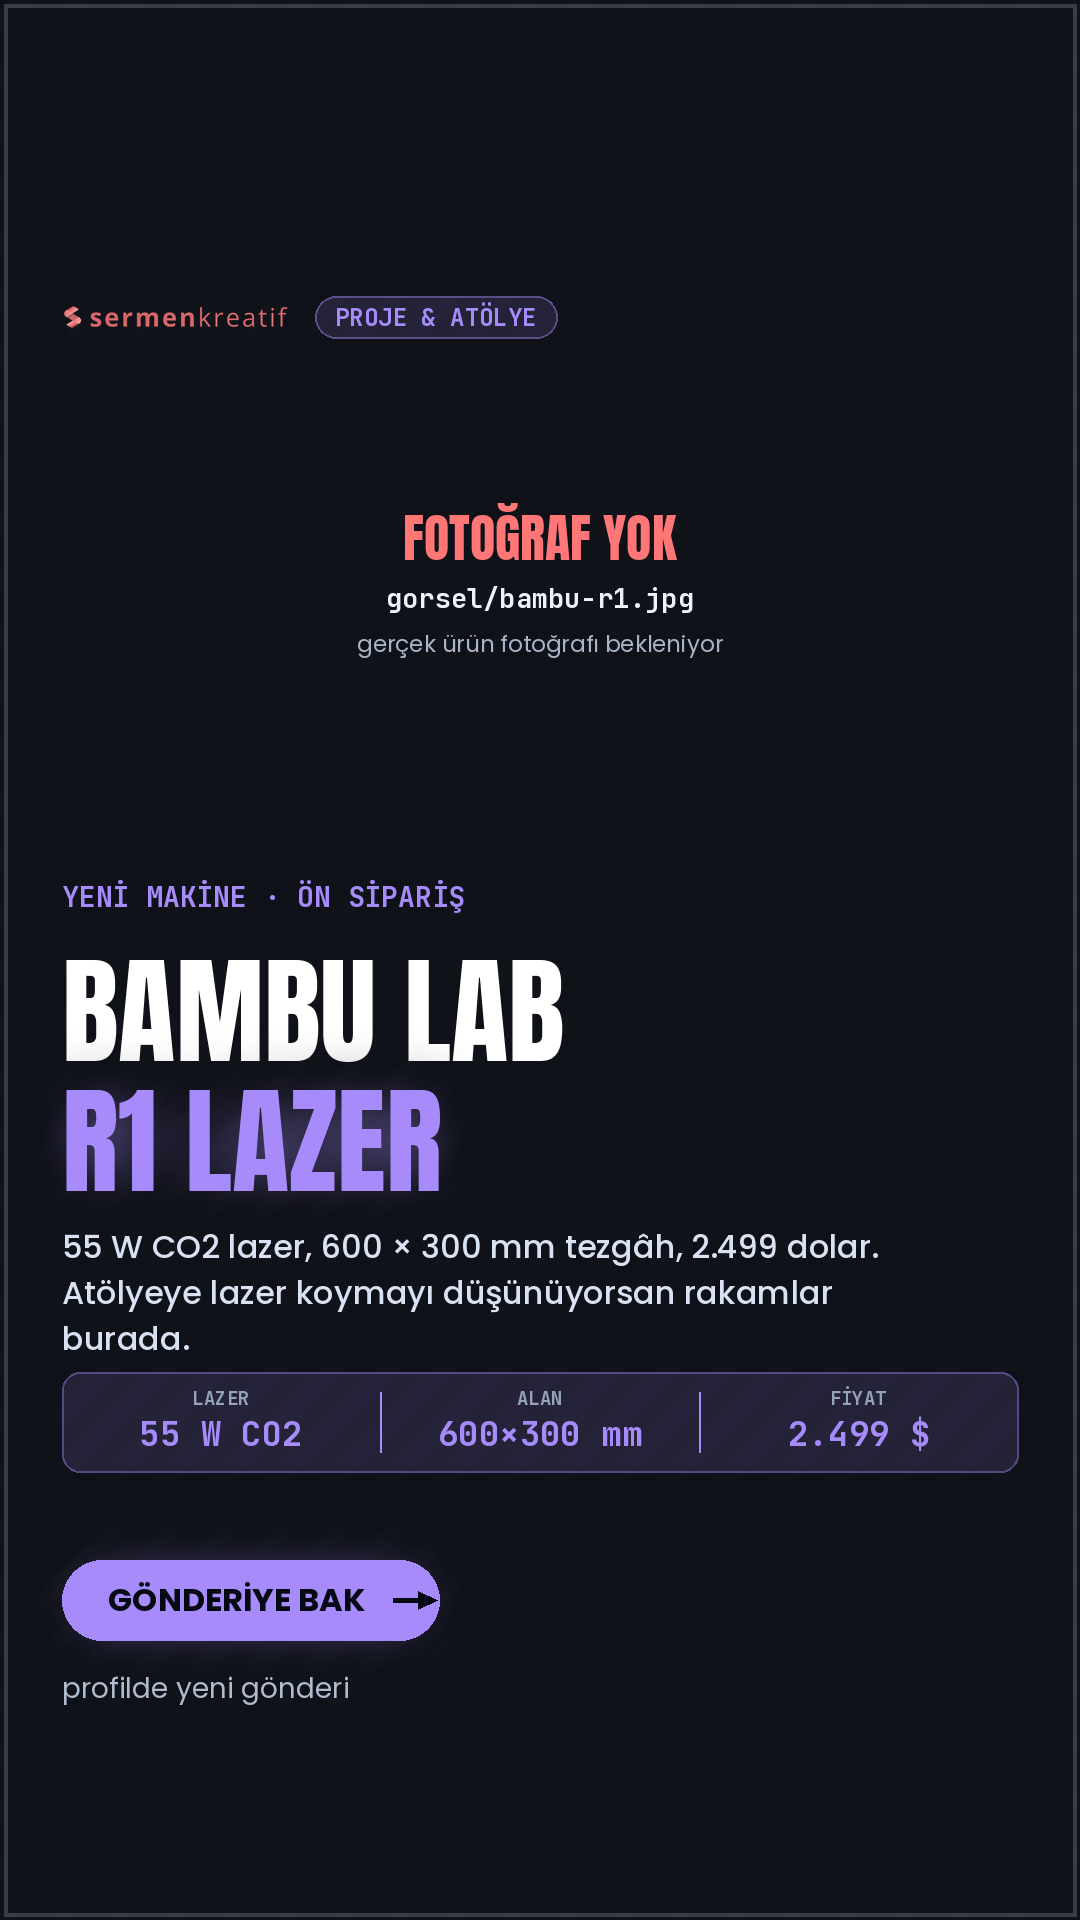
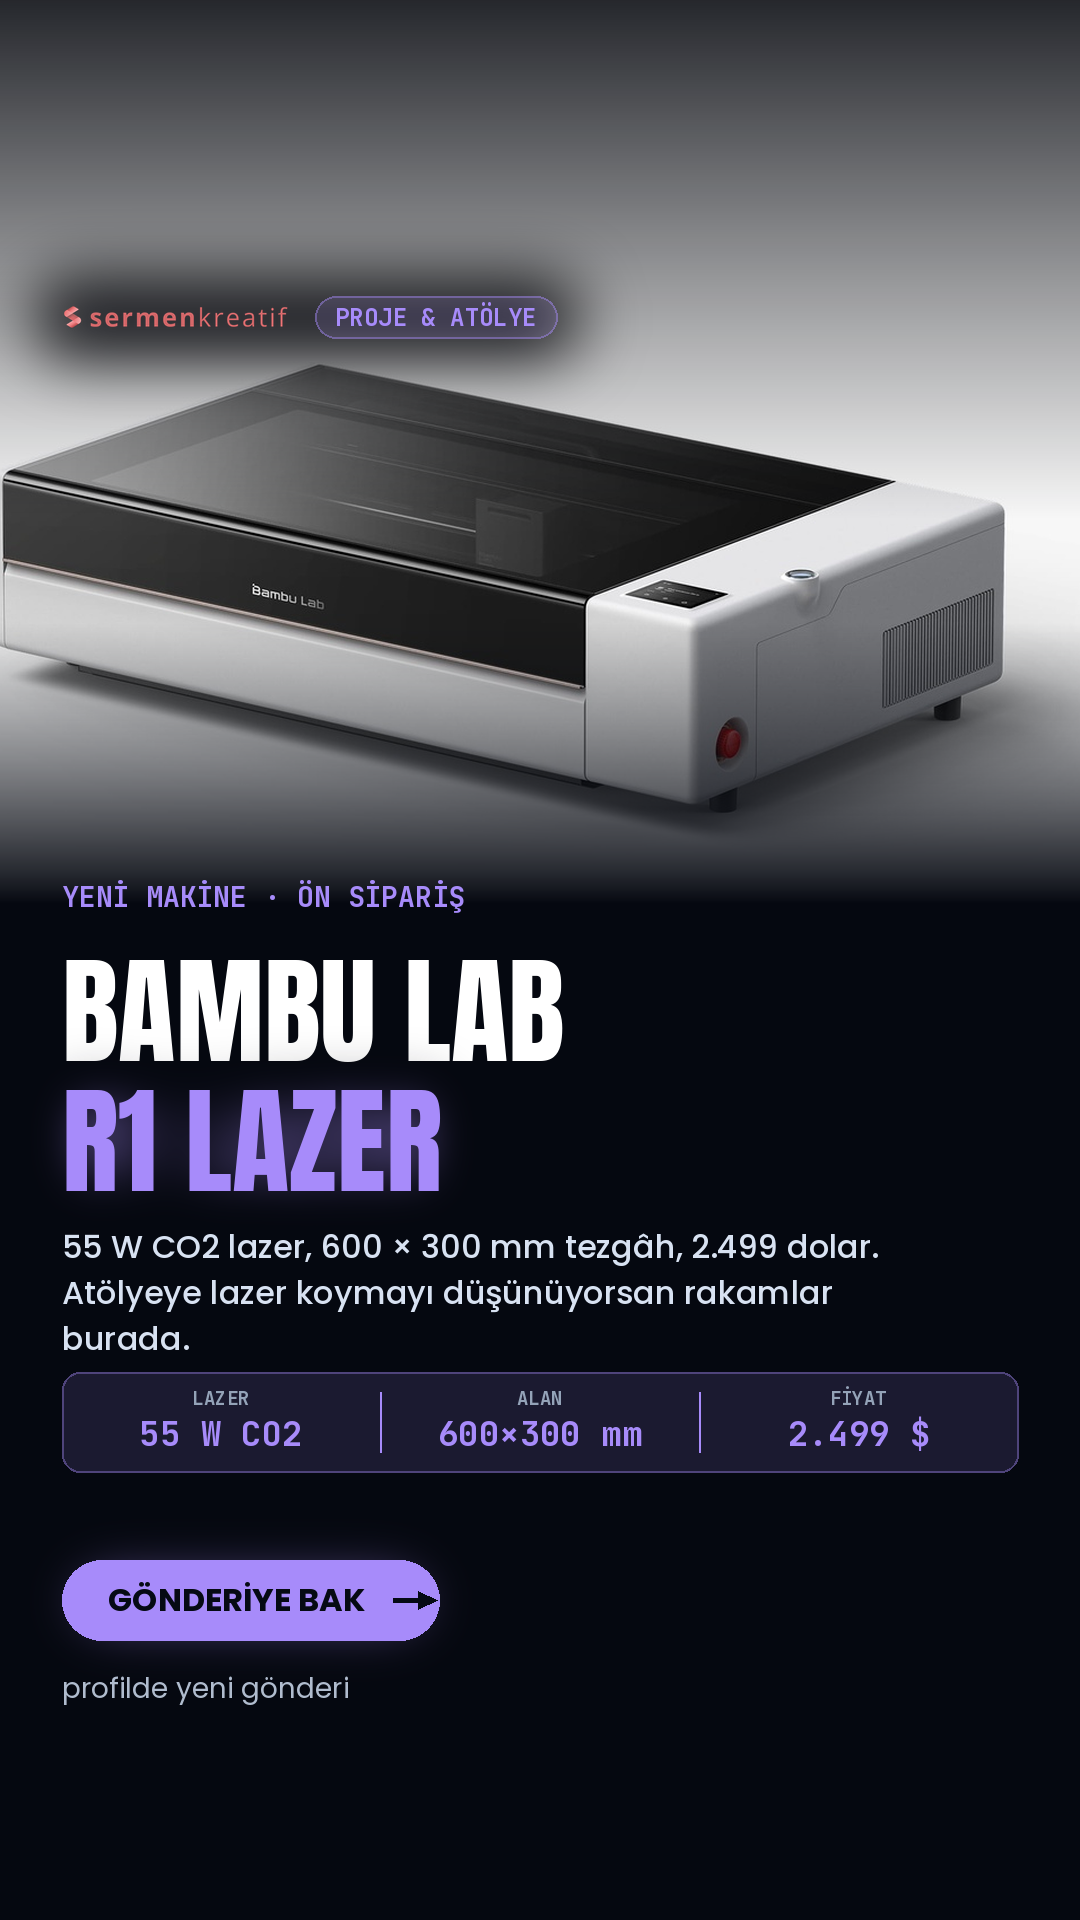
Ürün tanıtımlarına gerçek fotoğraflar eklendi
Fotoğraflar: Bambu Lab R1 ve Creality Ender-3 V3 Mega üretici ürün
çekimleri. Gelen yedi kareden biri kullanılmadı — R1 gönderisi için
gelen açık gövdeli diyot lazer karesi başka bir makineydi.

uret.py:
- urun kapağı artık fotoğrafı perdeyle karartmıyor; fotoğraf yazının
  başladığı yere kadar inip zemine eriyor. Beyaz stüdyo fotoğrafında
  perde yeterince karartmıyor, makinenin üstünde sert bir çizgi
  bırakıyordu.
- _parlaklik / _perde_op / _taban: perde koyuluğu fotoğrafın
  parlaklığına göre seçiliyor.
- Slaytta foto için odak alanı: bant kadrajı spec'ten ayarlanıyor.
- Hikayede logo şeridi parlak zemine denk gelirse altına yumuşak
  karartma giriyor.

İçerik:
- R1 4. karesi fotoğraflı oldu: ayrı satılan parçaların dizilişi.
- Ender metnine CFS uyarısı: fotoğraftaki çok renkli besleme ünitesi
  makineyle gelmiyor, Creality "yakında" diyor.

gorsel/BENIOKU.md: kapak/bant hazırlama farkı, kullanılan dosyalar ve
fotoğrafın gerçekten o ürün olduğunu doğrulama kuralı.

Claude-Session: https://claude.ai/code/session_01DAKoXHyqFjWGSzqcjwTyja

diff --git a/uret.py b/uret.py
@@ -1195,6 +1195,39 @@ def _perde(img, y0, y1, op0, op1):
     img.alpha_composite(lay)
 
 
+def _parlaklik(img, y0, y1):
+    """Bandın ortalama parlaklığı — perde koyuluğunu buna göre seçiyoruz."""
+    y0, y1 = max(0, int(y0)), min(img.height, int(y1))
+    if y1 <= y0:
+        return 0.0
+    k = img.convert("RGB").crop((0, y0, img.width, y1)) \
+           .resize((1, 1), Image.LANCZOS).getpixel((0, 0))
+    return 0.2126 * k[0] + 0.7152 * k[1] + 0.0722 * k[2]
+
+
+def _perde_op(parlaklik):
+    """Beyaz stüdyo fotoğrafı koyu fotoğraftan daha ağır perde istiyor."""
+    if parlaklik > 170:
+        return 0.93
+    if parlaklik > 110:
+        return 0.88
+    if parlaklik > 60:
+        return 0.80
+    return 0.70
+
+
+def _taban(img, y0, op, yumusak=160):
+    """y0'dan aşağısını karart: yumusak px içinde op'a çıkıp sabit kalıyor."""
+    y0 = int(y0)
+    lay = Image.new("RGBA", img.size, (0, 0, 0, 0))
+    g = ImageDraw.Draw(lay)
+    for i in range(max(0, y0), img.height):
+        t = min(1.0, (i - y0) / float(yumusak))
+        g.line([(0, i), (img.width, i)],
+               fill=(2, 4, 10, int(255 * op * (t ** 0.75))))
+    img.alpha_composite(lay)
+
+
 def foto_dolgu(img, ad, x0, y0, x1, y1, odak=0.42):
     """Fotoğrafı banda cover-crop ile oturt. Dosya yoksa yer tutucu çizer."""
     yol = gorsel_var(ad)
@@ -1258,13 +1291,7 @@ def _ozet_serit(img, oz, y, h=96):
 
 def kapak_urun(spec, sayac, yol):
     """Tam kare ürün fotoğrafı, yazı fotoğrafın üstünde."""
-    img = Image.new("RGBA", (W, H), BG + (255,))
-    var = foto_dolgu(img, spec.get("gorsel"), 0, 0, W, H,
-                     odak=spec.get("odak", 0.38))
-    if var:
-        _perde(img, 0, 340, 0.88, 0.0)
-        _perde(img, 520, H, 0.0, 0.96)
-    chrome(img, sayac, kaydir=True)
+    img = base()
     d = ImageDraw.Draw(img)
 
     s1, s2 = spec["satir1"], spec["satir2"]
@@ -1278,6 +1305,14 @@ def kapak_urun(spec, sayac, yol):
     blok += len(spot) * 40 + (14 if spot else 0)
     blok += 114 if oz else 0
     y = 1252 - blok
+
+    # fotoğraf yazının başladığı yere kadar iniyor, alt kenarı zemine eriyor
+    var = foto_ust(img, spec.get("gorsel"), y1=int(y) + 26, erit=230,
+                   odak=spec.get("odak", 0.38))
+    if var:
+        _perde(img, 0, 300, _perde_op(_parlaklik(img, 0, 170)) * 0.92, 0.0)
+    chrome(img, sayac, kaydir=True)
+    d = ImageDraw.Draw(img)
 
     d.text((GUT, y), etiket, font=mono(27, True), fill=AC(), anchor="la")
     y += 44
@@ -1303,9 +1338,10 @@ def kapak_urun(spec, sayac, yol):
 def adim_foto(spec, no, toplam, sayac, yol):
     """Üstte fotoğraf, altta başlık ve künye satırları."""
     img = base()
-    var = foto_ust(img, spec.get("foto"), y1=spec.get("bant", 628))
+    var = foto_ust(img, spec.get("foto"), y1=spec.get("bant", 628),
+                   odak=spec.get("odak", 0.35))
     if var:
-        _perde(img, 0, 212, 0.80, 0.0)
+        _perde(img, 0, 212, _perde_op(_parlaklik(img, 0, 150)) * 0.95, 0.0)
     chrome(img, sayac, kaydir=True)
     d = ImageDraw.Draw(img)
 
@@ -1361,19 +1397,31 @@ def adim_foto(spec, no, toplam, sayac, yol):
 def hikaye_urun(spec, yol):
     """1080 x 1920 ürün hikayesi — tam kare fotoğraf."""
     SW, SH = 1080, 1920
-    img = Image.new("RGBA", (SW, SH), BG + (255,))
-    var = foto_dolgu(img, spec.get("gorsel"), 0, 0, SW, SH,
-                     odak=spec.get("odak", 0.38))
+    img = base_renkli(SW, SH) if _mod() != "koyu" else \
+        Image.new("RGBA", (SW, SH), BG + (255,))
+    d0 = ImageDraw.Draw(img)
+    f0 = fit(d0, max(spec["satir1"], spec["satir2"], key=len), anton, 956, 118)
+    oz0 = [tuple(r) for r in spec.get("ozet", [])]
+    spot0 = wrap(d0, P(spec["spot"]), pop(32, "Medium"), 900)[:3] \
+        if spec.get("spot") else []
+    ust0 = 1560 - 80 - (44 + f0.size * 1.1 * 2 + 42 + len(spot0) * 46
+                        + (118 if oz0 else 0))
+    var = foto_ust(img, spec.get("gorsel"), y1=int(ust0) + 26, erit=280,
+                   odak=spec.get("odak", 0.38))
     if var:
-        _perde(img, 0, 620, 0.90, 0.0)
-        _perde(img, 840, SH, 0.0, 0.96)
+        _perde(img, 0, 520, _perde_op(_parlaklik(img, 0, 380)) * 0.92, 0.0)
 
     logo = bright_logo(34)
-    img.alpha_composite(logo, (GUT, 300))
     d = ImageDraw.Draw(img)
     fl = mono(24, True)
     lw = d.textlength(LABEL, font=fl)
     lx = GUT + logo.width + 26
+    if var and _parlaklik(img, 285, 350) > 105:
+        # şerit beyaz zemine denk geldi — altına yumuşak karartma
+        img.alpha_composite(glow((SW, SH), lambda g: g.rounded_rectangle(
+            [GUT - 30, 278, lx + lw + 62, 358], radius=42,
+            fill=(2, 4, 10, 225)), 30))
+    img.alpha_composite(logo, (GUT, 300))
     over(img, lambda g: g.rounded_rectangle(
         [lx, 296, lx + lw + 40, 338], radius=21, fill=a(AC(), 0.14),
         outline=a(AC(), 0.5), width=2))

diff --git a/gorsel/BENIOKU.md b/gorsel/BENIOKU.md
@@ -20,24 +20,32 @@ UYARI — fotoğraf yok, kareye yer tutucu basıldı: gorsel/bambu-r1.jpg
 - **Kaynak:** üreticinin basın kiti ya da kendi çektiğin fotoğraf. Google görselinden indirilen fotoğraf ticari gönderide kullanılmaz.
 - `odak` alanı (spec içinde, 0-1) dikey kırpmayı kaydırıyor: 0 üstten, 1 alttan. Makine çerçeveden taşıyorsa önce bunu dene.
 
-## Bekleyen dosyalar
+## Kapak fotoğrafı ile bant fotoğrafı farkı
 
-Üretici bunları arıyor, henüz klasörde yok:
+- **Kapak** (`urun` tipi): fotoğraf yazının başladığı yere kadar iniyor, alt kenarı zemine eriyor. Bu yüzden kapak dosyası **1080 × 800** olarak hazırlanıyor ve `odak` 0 veriliyor; konu karenin alt kenarına yakın dursun, üstte biraz boşluk kalsın.
+- **Bant** (slayttaki `foto`): üretici orijinali kendi kırpıyor. Dosyayı olduğu gibi koy, kadrajı slayttaki `odak` (0 üstten, 1 alttan) ile ayarla. `bant` yüksekliği değiştirilebiliyor.
 
-| Dosya | Nerede kullanılıyor | Ne olmalı |
+## Klasördeki ürün fotoğrafları
+
+| Dosya | Nerede kullanılıyor | Kaynak |
 |---|---|---|
-| `bambu-r1.jpg` | 2026-10-10-bambu-r1-tanitim · kapak + hikaye | R1'in tam gövdesi, kapağı kapalı, önden-yandan |
-| `bambu-r1-is.jpg` | aynı gönderi · 2. kare | Kesilmiş/gravürlenmiş ahşap ya da akrilik iş, yakın plan |
-| `ender-v3-mega.jpg` | 2026-10-11-ender-v3-mega-tanitim · kapak + hikaye | Yazıcının tam gövdesi, tabla görünür |
-| `ender-v3-mega-is.jpg` | aynı gönderi · 2. kare | Tabladan çıkmış büyük parça ya da baskı anı |
+| `bambu-r1.jpg` | 2026-10-10 · kapak + hikaye | Bambu Lab ürün çekimi, 1080 × 800 kadraja hazırlandı |
+| `bambu-r1-is.jpg` | aynı gönderi · 2. kare | Bambu Lab tezgâh çekimi, orijinal 2400 × 2400 |
+| `bambu-r1-aks.jpg` | aynı gönderi · 4. kare | Ayrı satılan parçaların dizilişi, orijinal |
+| `ender-v3-mega.jpg` | 2026-10-11 · kapak + hikaye | Creality ürün çekimi, 1080 × 800 kadraja hazırlandı |
+| `ender-v3-mega-is.jpg` | aynı gönderi · 2. kare | Creality önden çekim, orijinal; `odak` 0,74 ile tablaya bakıyor |
 
-Dosyayı klasöre koyup gönderiyi yeniden üret:
+Fotoğrafı değiştirince gönderiyi yeniden üret:
 
 ```
 python3 uret.py 2026-10-10-bambu-r1-tanitim/spec.json 2026-10-10-bambu-r1-tanitim
 ```
 
-Uyarı satırı kaybolduysa fotoğraf yerine oturmuş demektir.
+Uyarı satırı çıkmıyorsa bütün fotoğraflar yerine oturmuş demektir.
+
+## Fotoğrafı koymadan önce kontrol et
+
+Gönderilen her görsel anlatılan ürünün kendisi olmayabilir. Arama sonuçlarında ve stok görsel sitelerinde benzer makineler dolaşıyor. **Makineyi tanımadan dosyayı klasöre koyma** — yanlış makineyi tanıtmak vektör çizimden daha kötü. Bu sette bir kare bu yüzden elendi: R1 gönderisi için gelen açık gövdeli diyot lazer karesi kullanılmadı.
 
 ## liste kapağı seti
 

diff --git a/2026-10-11-ender-v3-mega-tanitim/metin.md b/2026-10-11-ender-v3-mega-tanitim/metin.md
@@ -12,6 +12,8 @@ Prize de bakın → 1.150 W. Bu tek başına bir su ısıtıcısı demek. Uzatma
 
 Bağlantı USB, 2,4 GHz Wi-Fi ve Creality Cloud. Filament bitti ve dolaşma algılama var.
 
+Fotoğraflardaki uyarı → üstteki çok renkli besleme ünitesi (CFS) makineyle birlikte gelmiyor. Creality onu "yakında" diye listelemiş, çok renkli baskı desteğini de henüz teyit etmedi. Tanıtım görsellerine bakıp kutudan o düzenin çıkacağını varsaymayın.
+
 Fiyat tarafı → Çin lansman fiyatı 3.399 RMB. Global fiyat ve tarih açıklanmadı. Türkiye'de 36.399 TL'ye listelendi ama stok yok, şimdilik gelince haber ver kaydı alınıyor.
 
 Benim görüşüm: büyük tabla acil değilse ilk bağımsız testleri beklemek mantıklı. Yukarıdaki rakamların hepsi üretici beyanı, hiçbiri henüz bağımsız ölçülmedi.
